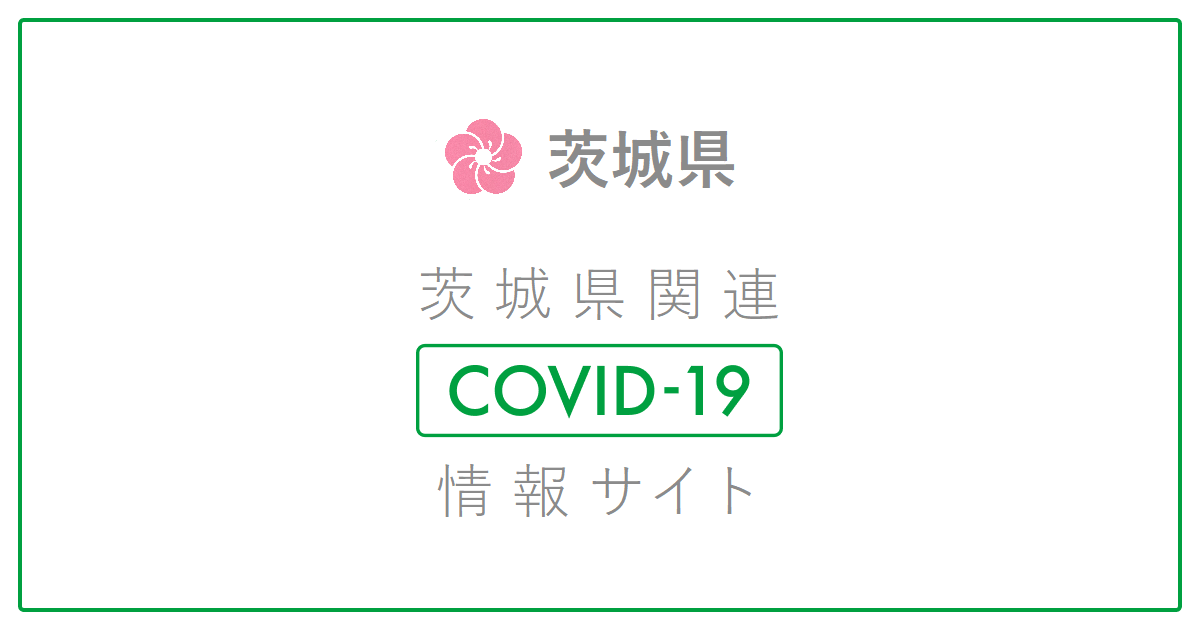
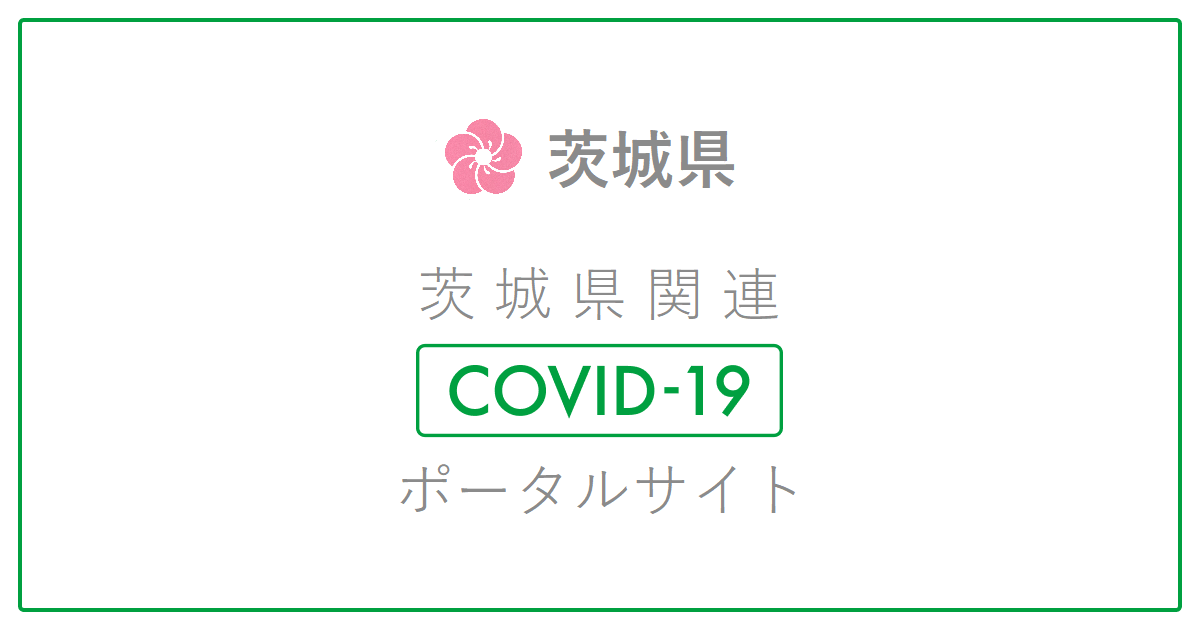
名称をポータルサイトに変更

Changed region(s): [[0.3392, 0.7238, 0.6783, 0.8143]]

diff --git a/layouts/default.vue b/layouts/default.vue
@@ -128,7 +128,7 @@ export default Vue.extend({
             ' ' +
             this.$t('新型コロナウイルス感染症') +
             ' ' +
-            this.$t('情報まとめサイト')
+            this.$t('ポータルサイト')
         },
         {
           hid: 'og:url',
@@ -144,7 +144,7 @@ export default Vue.extend({
             ' ' +
             this.$t('新型コロナウイルス感染症') +
             ' ' +
-            this.$t('情報まとめサイト')
+            this.$t('ポータルサイト')
         },
         {
           hid: 'og:description',
@@ -169,7 +169,7 @@ export default Vue.extend({
             ' ' +
             this.$t('新型コロナウイルス感染症') +
             ' ' +
-            this.$t('情報まとめサイト')
+            this.$t('ポータルサイト')
         },
         {
           hid: 'twitter:image',

diff --git a/nuxt.config.ts b/nuxt.config.ts
@@ -15,7 +15,7 @@ const config: Configuration = {
     htmlAttrs: {
       prefix: 'og: http://ogp.me/ns#'
     },
-    titleTemplate: '%s | 茨城県 新型コロナウイルス感染症情報まとめサイト',
+    titleTemplate: '%s | 茨城県 新型コロナウイルス感染症ポータルサイト',
     meta: [
       { charset: 'utf-8' },
       { name: 'viewport', content: 'width=device-width, initial-scale=1' },
@@ -149,7 +149,7 @@ const config: Configuration = {
     // hardSource: process.env.NODE_ENV === 'development'
   },
   manifest: {
-    name: '茨城県 新型コロナウイルス感染症情報まとめサイト',
+    name: '茨城県 新型コロナウイルス感染症ポータルサイト',
     theme_color: '#00a040',
     background_color: '#ffffff',
     display: 'standalone',

diff --git a/layouts/print.vue b/layouts/print.vue
@@ -13,7 +13,7 @@
           <h1 class="PrintMeta-Heading">
             {{ $t('新型コロナウイルス感染症') }}
             <br />
-            {{ $t('情報まとめサイト') }}
+            {{ $t('ポータルサイト') }}
           </h1>
         </div>
         <div class="PrintMeta-QRWrapper">

diff --git a/pages/cards/_card.vue b/pages/cards/_card.vue
@@ -146,7 +146,7 @@ export default {
             this.$t('茨城県') +
             ' ' +
             this.$t('新型コロナウイルス感染症') +
-            this.$t('情報まとめサイト')
+            this.$t('ポータルサイト')
         },
         {
           hid: 'description',

diff --git a/components/SideNavigation.vue b/components/SideNavigation.vue
@@ -17,7 +17,7 @@
           />
           <div class="SideNavigation-HeaderText">
             {{ $t('新型コロナウイルス感染症') }}<br />{{
-              $t('情報まとめサイト')
+              $t('ポータルサイト')
             }}
           </div>
         </nuxt-link>

diff --git a/README.md b/README.md
@@ -1,8 +1,8 @@
-# 茨城県 新型コロナウイルス感染症情報まとめサイト
+# 茨城県 新型コロナウイルス感染症ポータルサイト
 
 ![](https://github.com/tokyo-metropolitan-gov/covid19/workflows/production%20deploy/badge.svg)
 
-[![茨城県 新型コロナウイルス感染症情報まとめサイト](/static/ogp.png)](https://stopcovid19-ibaraki.jp/)
+[![茨城県 新型コロナウイルス感染症ポータルサイト](/static/ogp.png)](https://stopcovid19-ibaraki.jp/)
 
 ## 貢献の仕方
 Issues にあるいろいろな修正にご協力いただけると嬉しいです。
